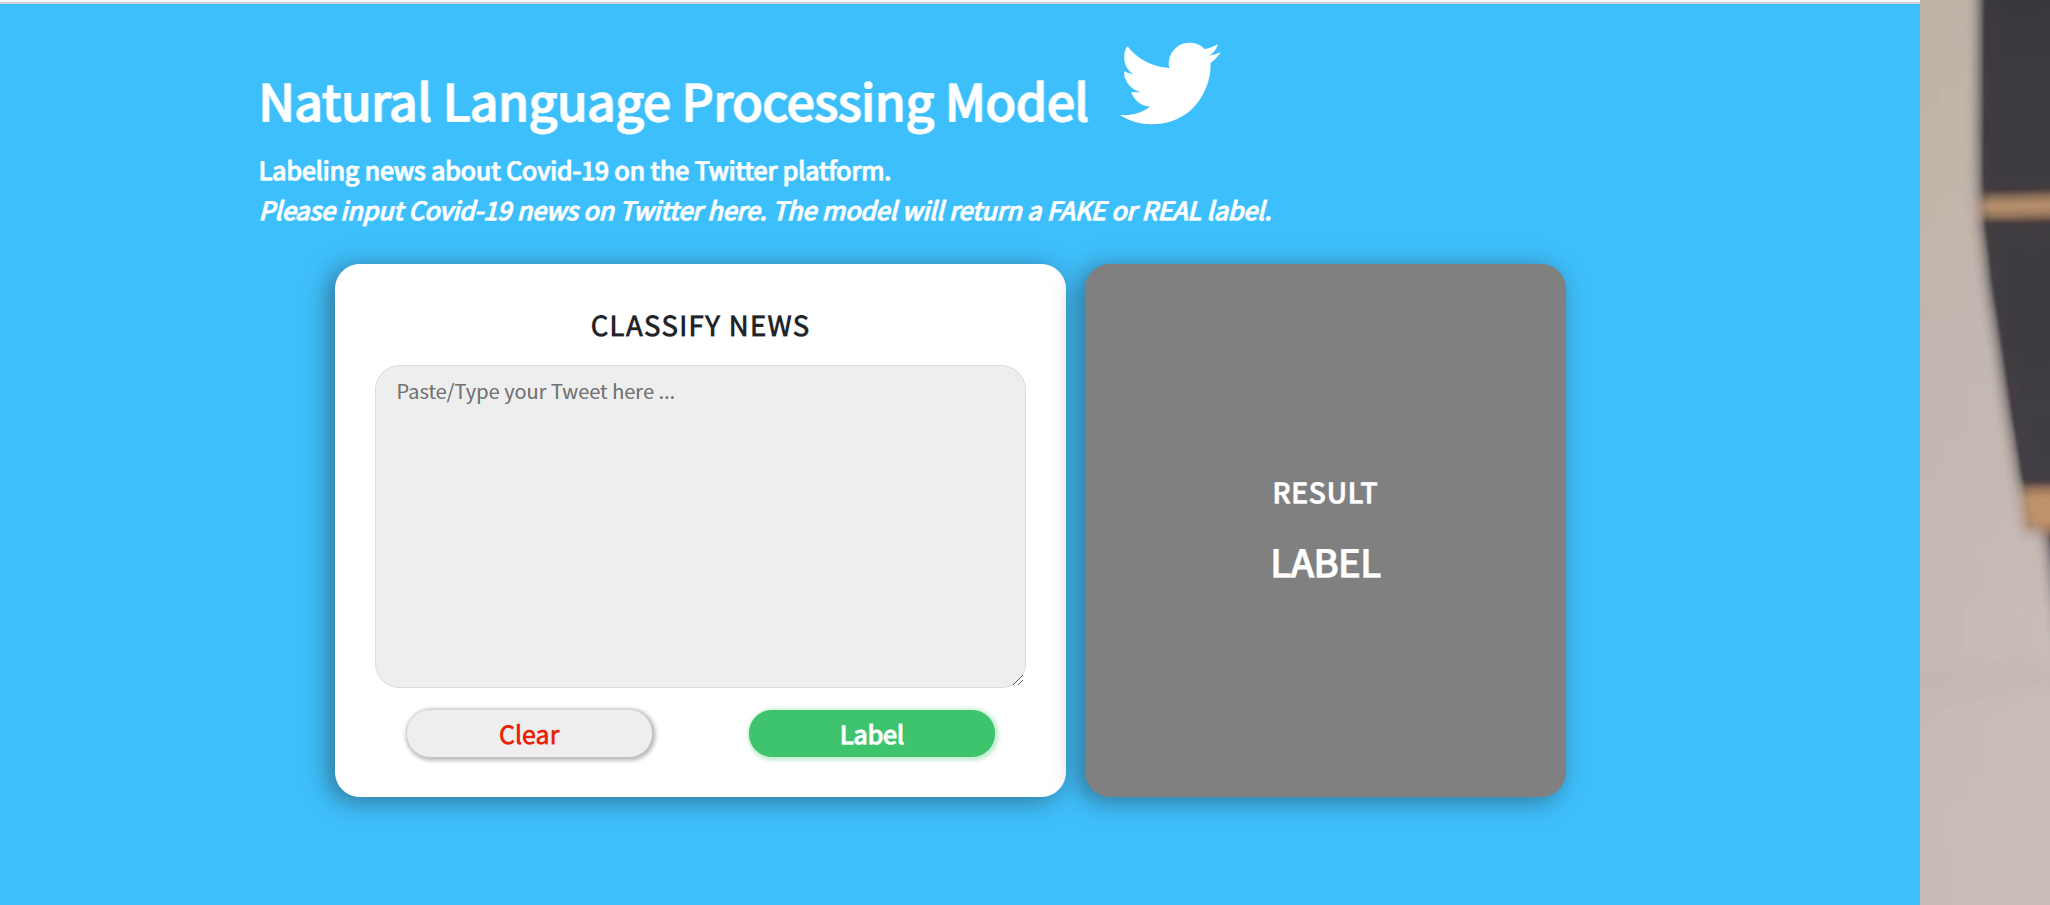
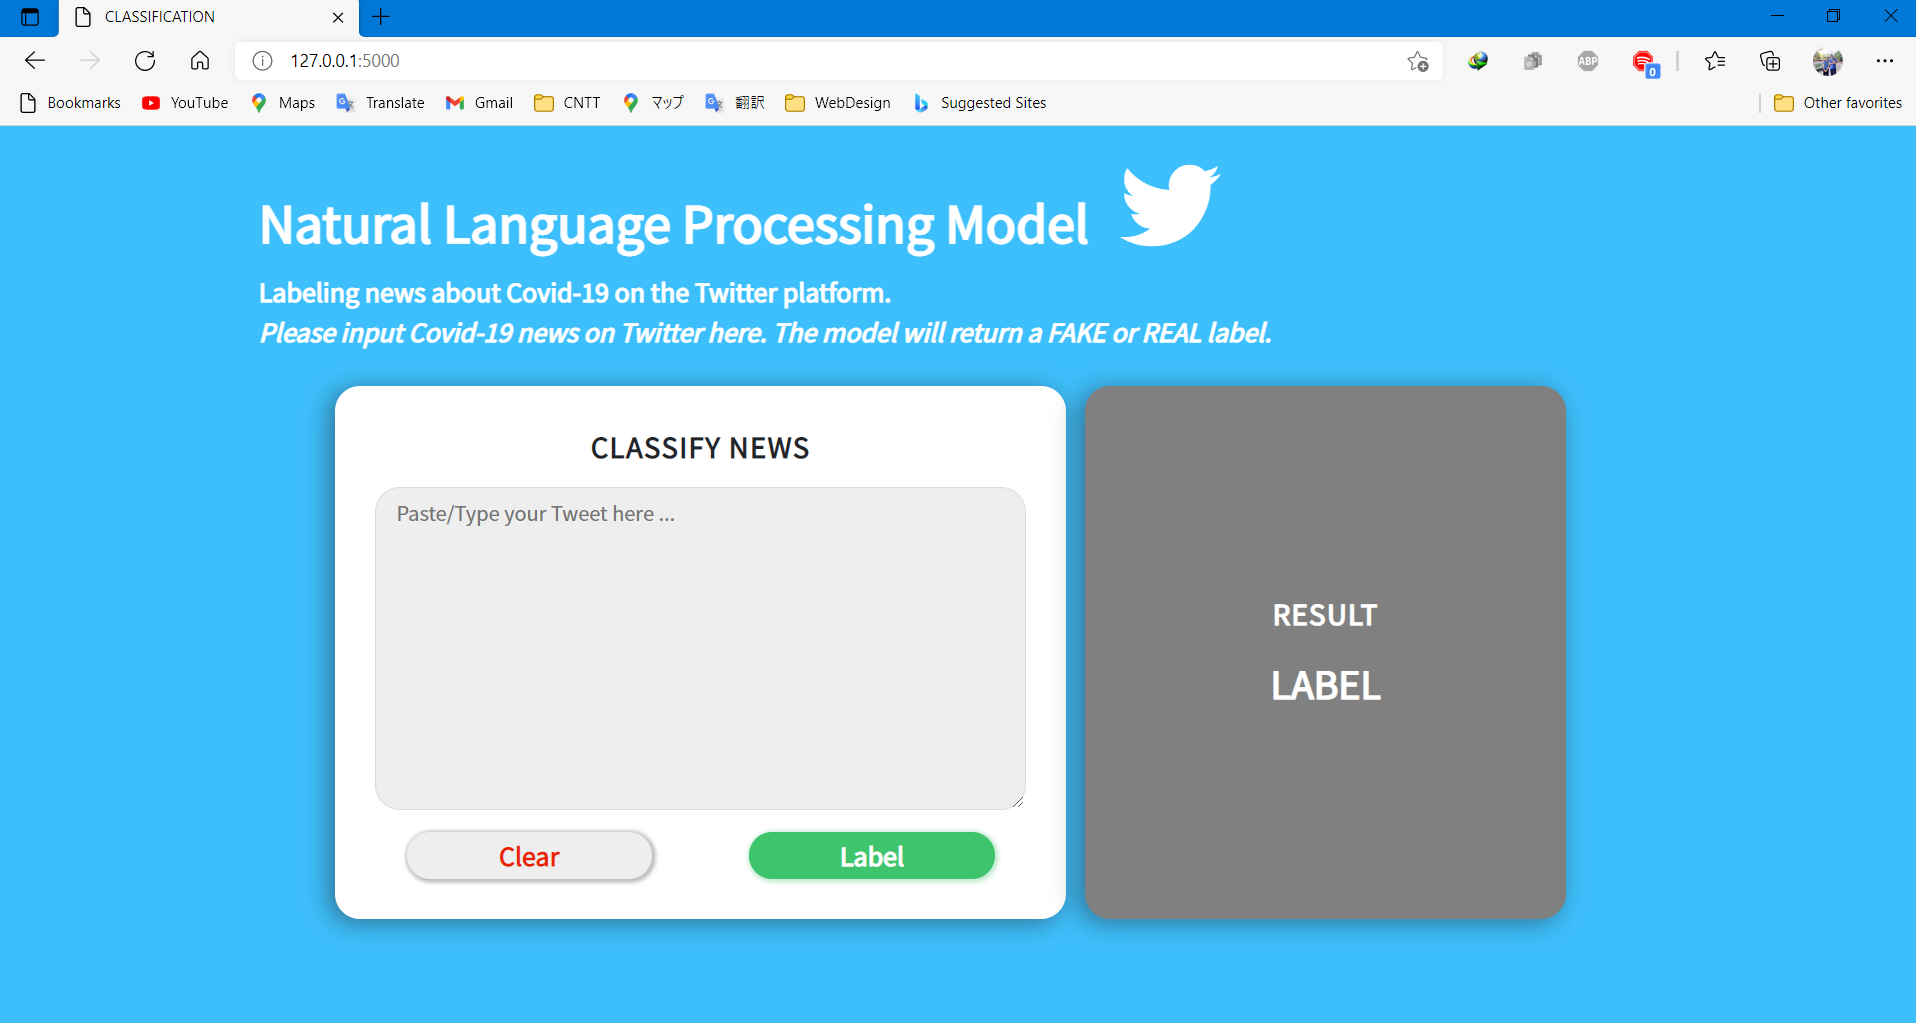
update README

diff --git a/Readme.md b/Readme.md
@@ -66,3 +66,22 @@ python run_server.py
 ```
 
 **Ngoài ra bạn có thể mở trực tiếp run_server.py bằng Visual Studio Code sau khi đã cài đặt các gói Package trên.**
+
+
+**Sau đó bạn chỉ cần đưa nội dung tin tức trên Twitter vào mục CLASSIFY NEWS và bấm Label, hệ thống sẽ phân tích, dự đoán và trả lại nhãn cho tin tức đó là FAKE hay REAL.**
+
+
+## **Hình ảnh trực quan khi chạy Website**
+
+- ## **Trạng thái Website chưa đưa dữ liệu**
+
+![image](imgs/Web.png)
+
+
+- ## **Trạng tái Website khi trả về nhãn REAL**
+
+![image](imgs/Web_result_REAL.png)
+
+- ## **Trạng thái Website khi trả về nhãn FAKE**
+
+![image](imgs/Web_result_FAKE.png)
